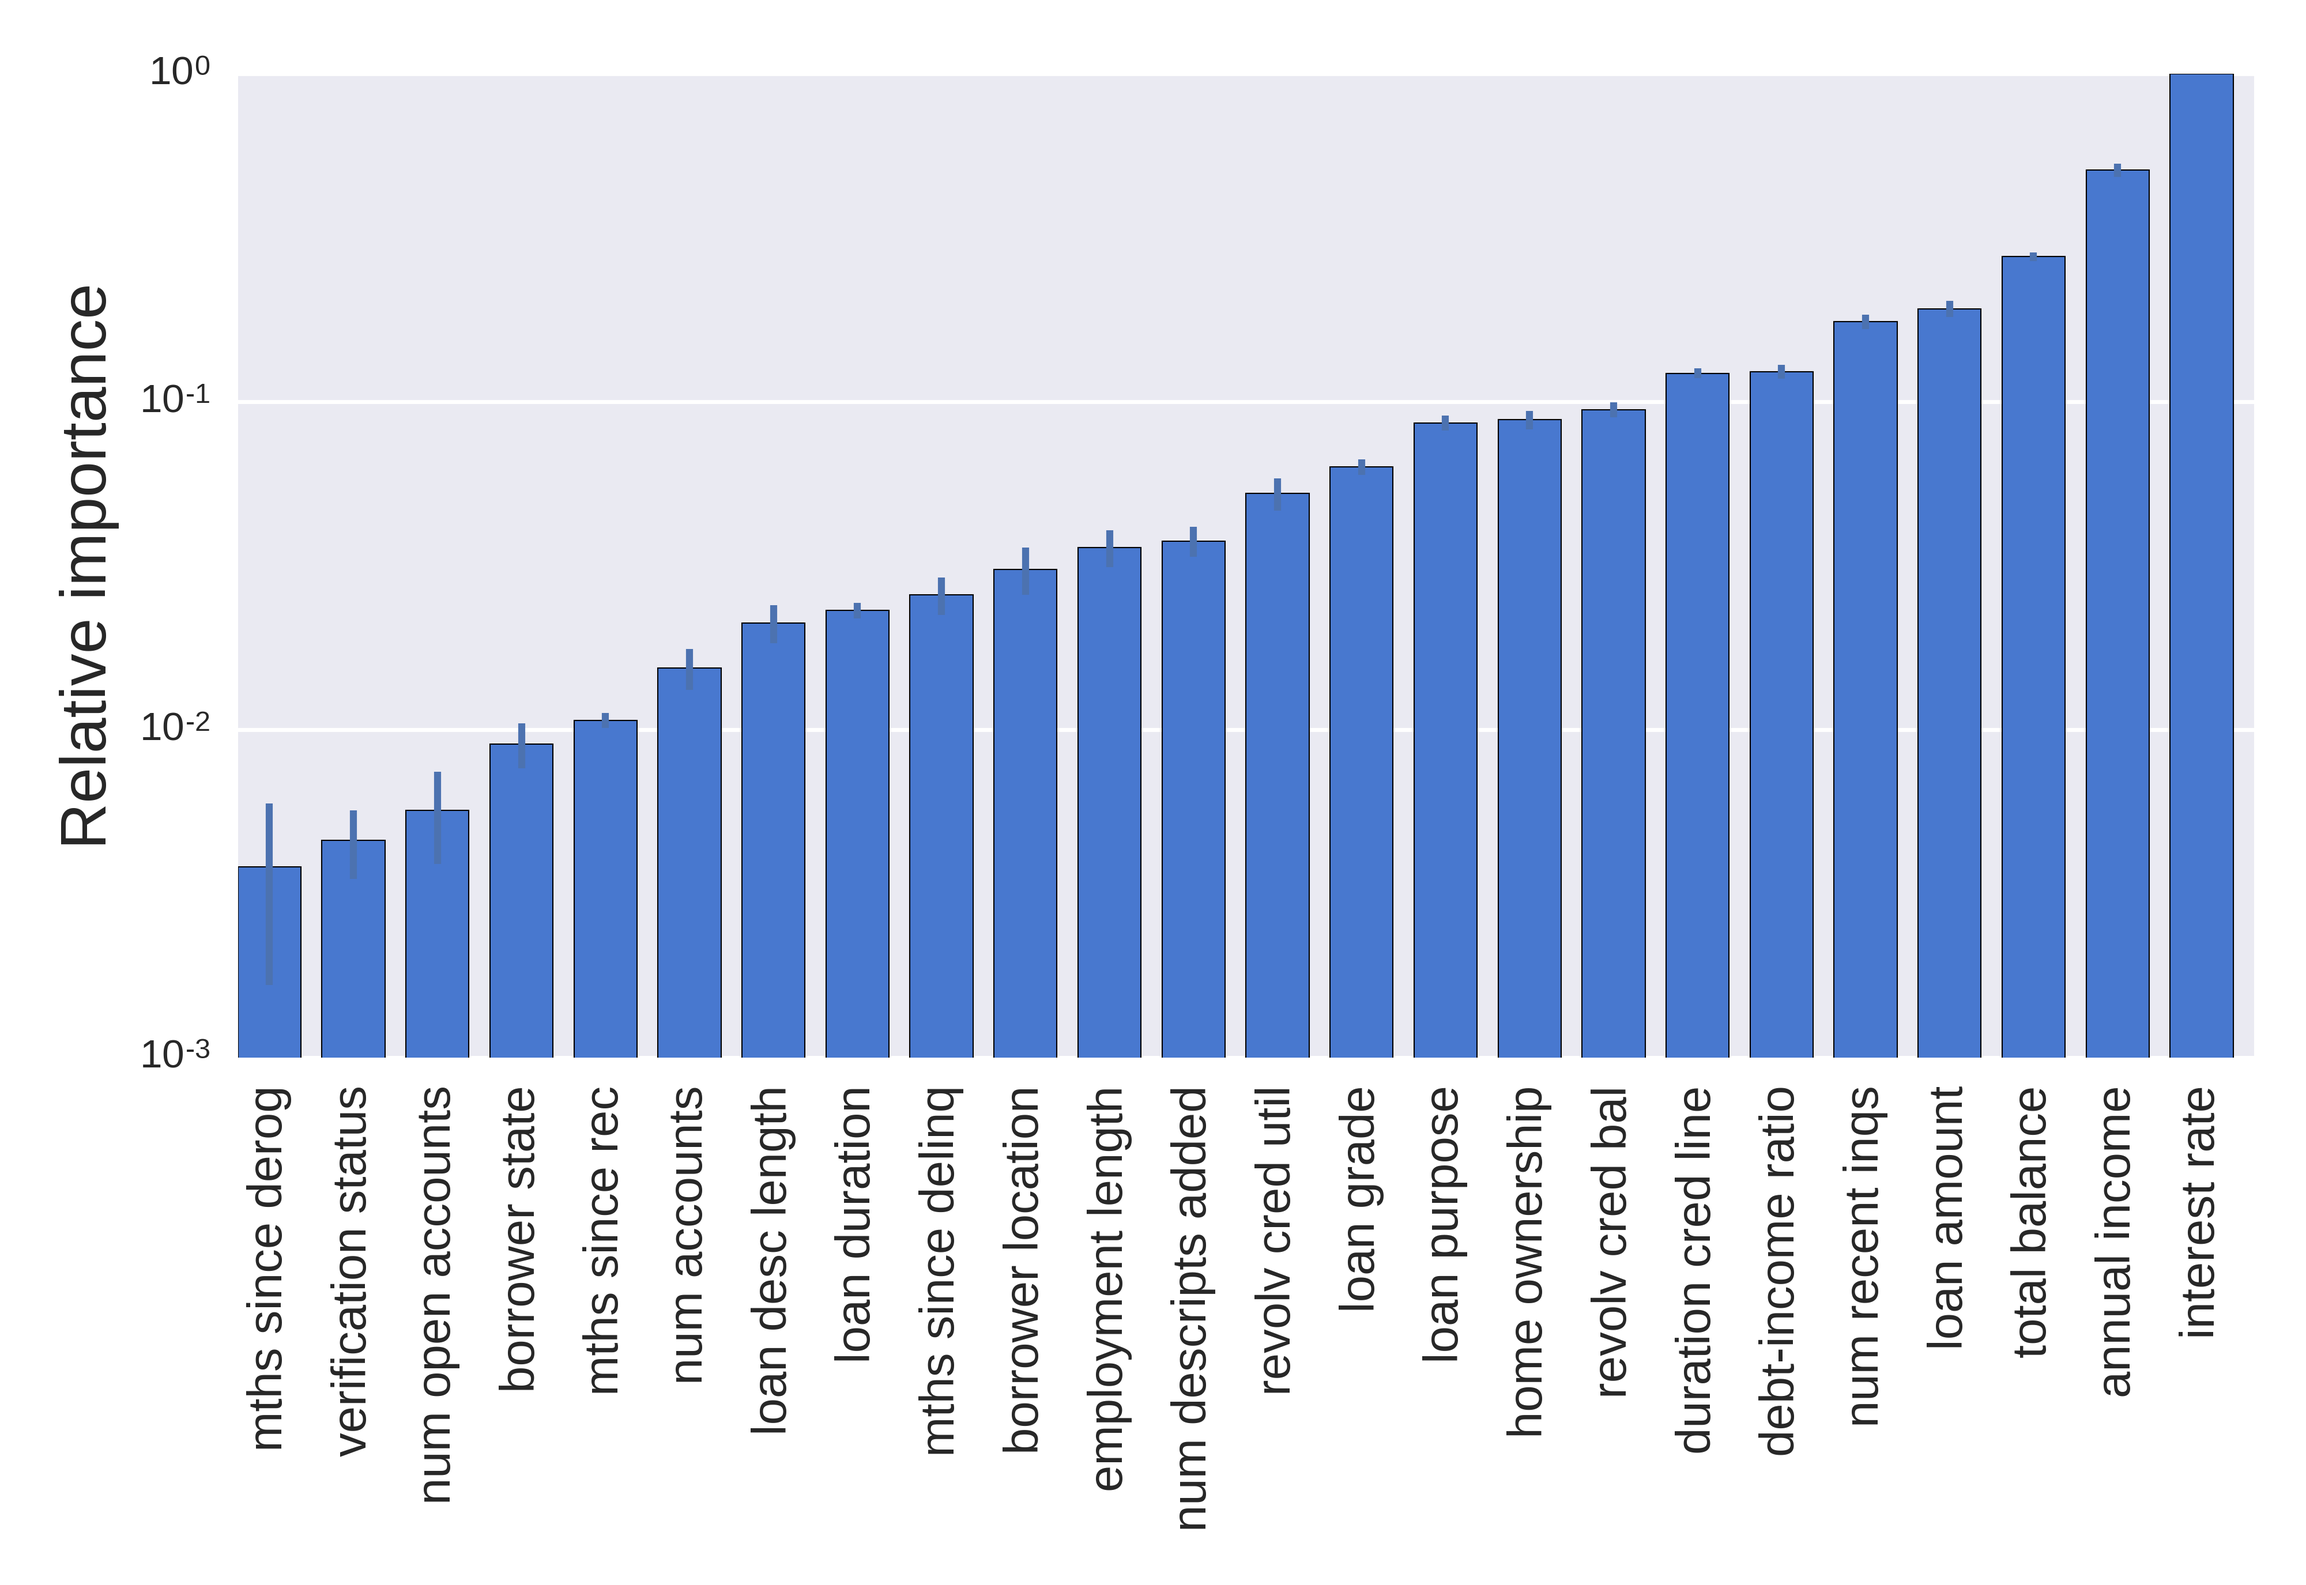
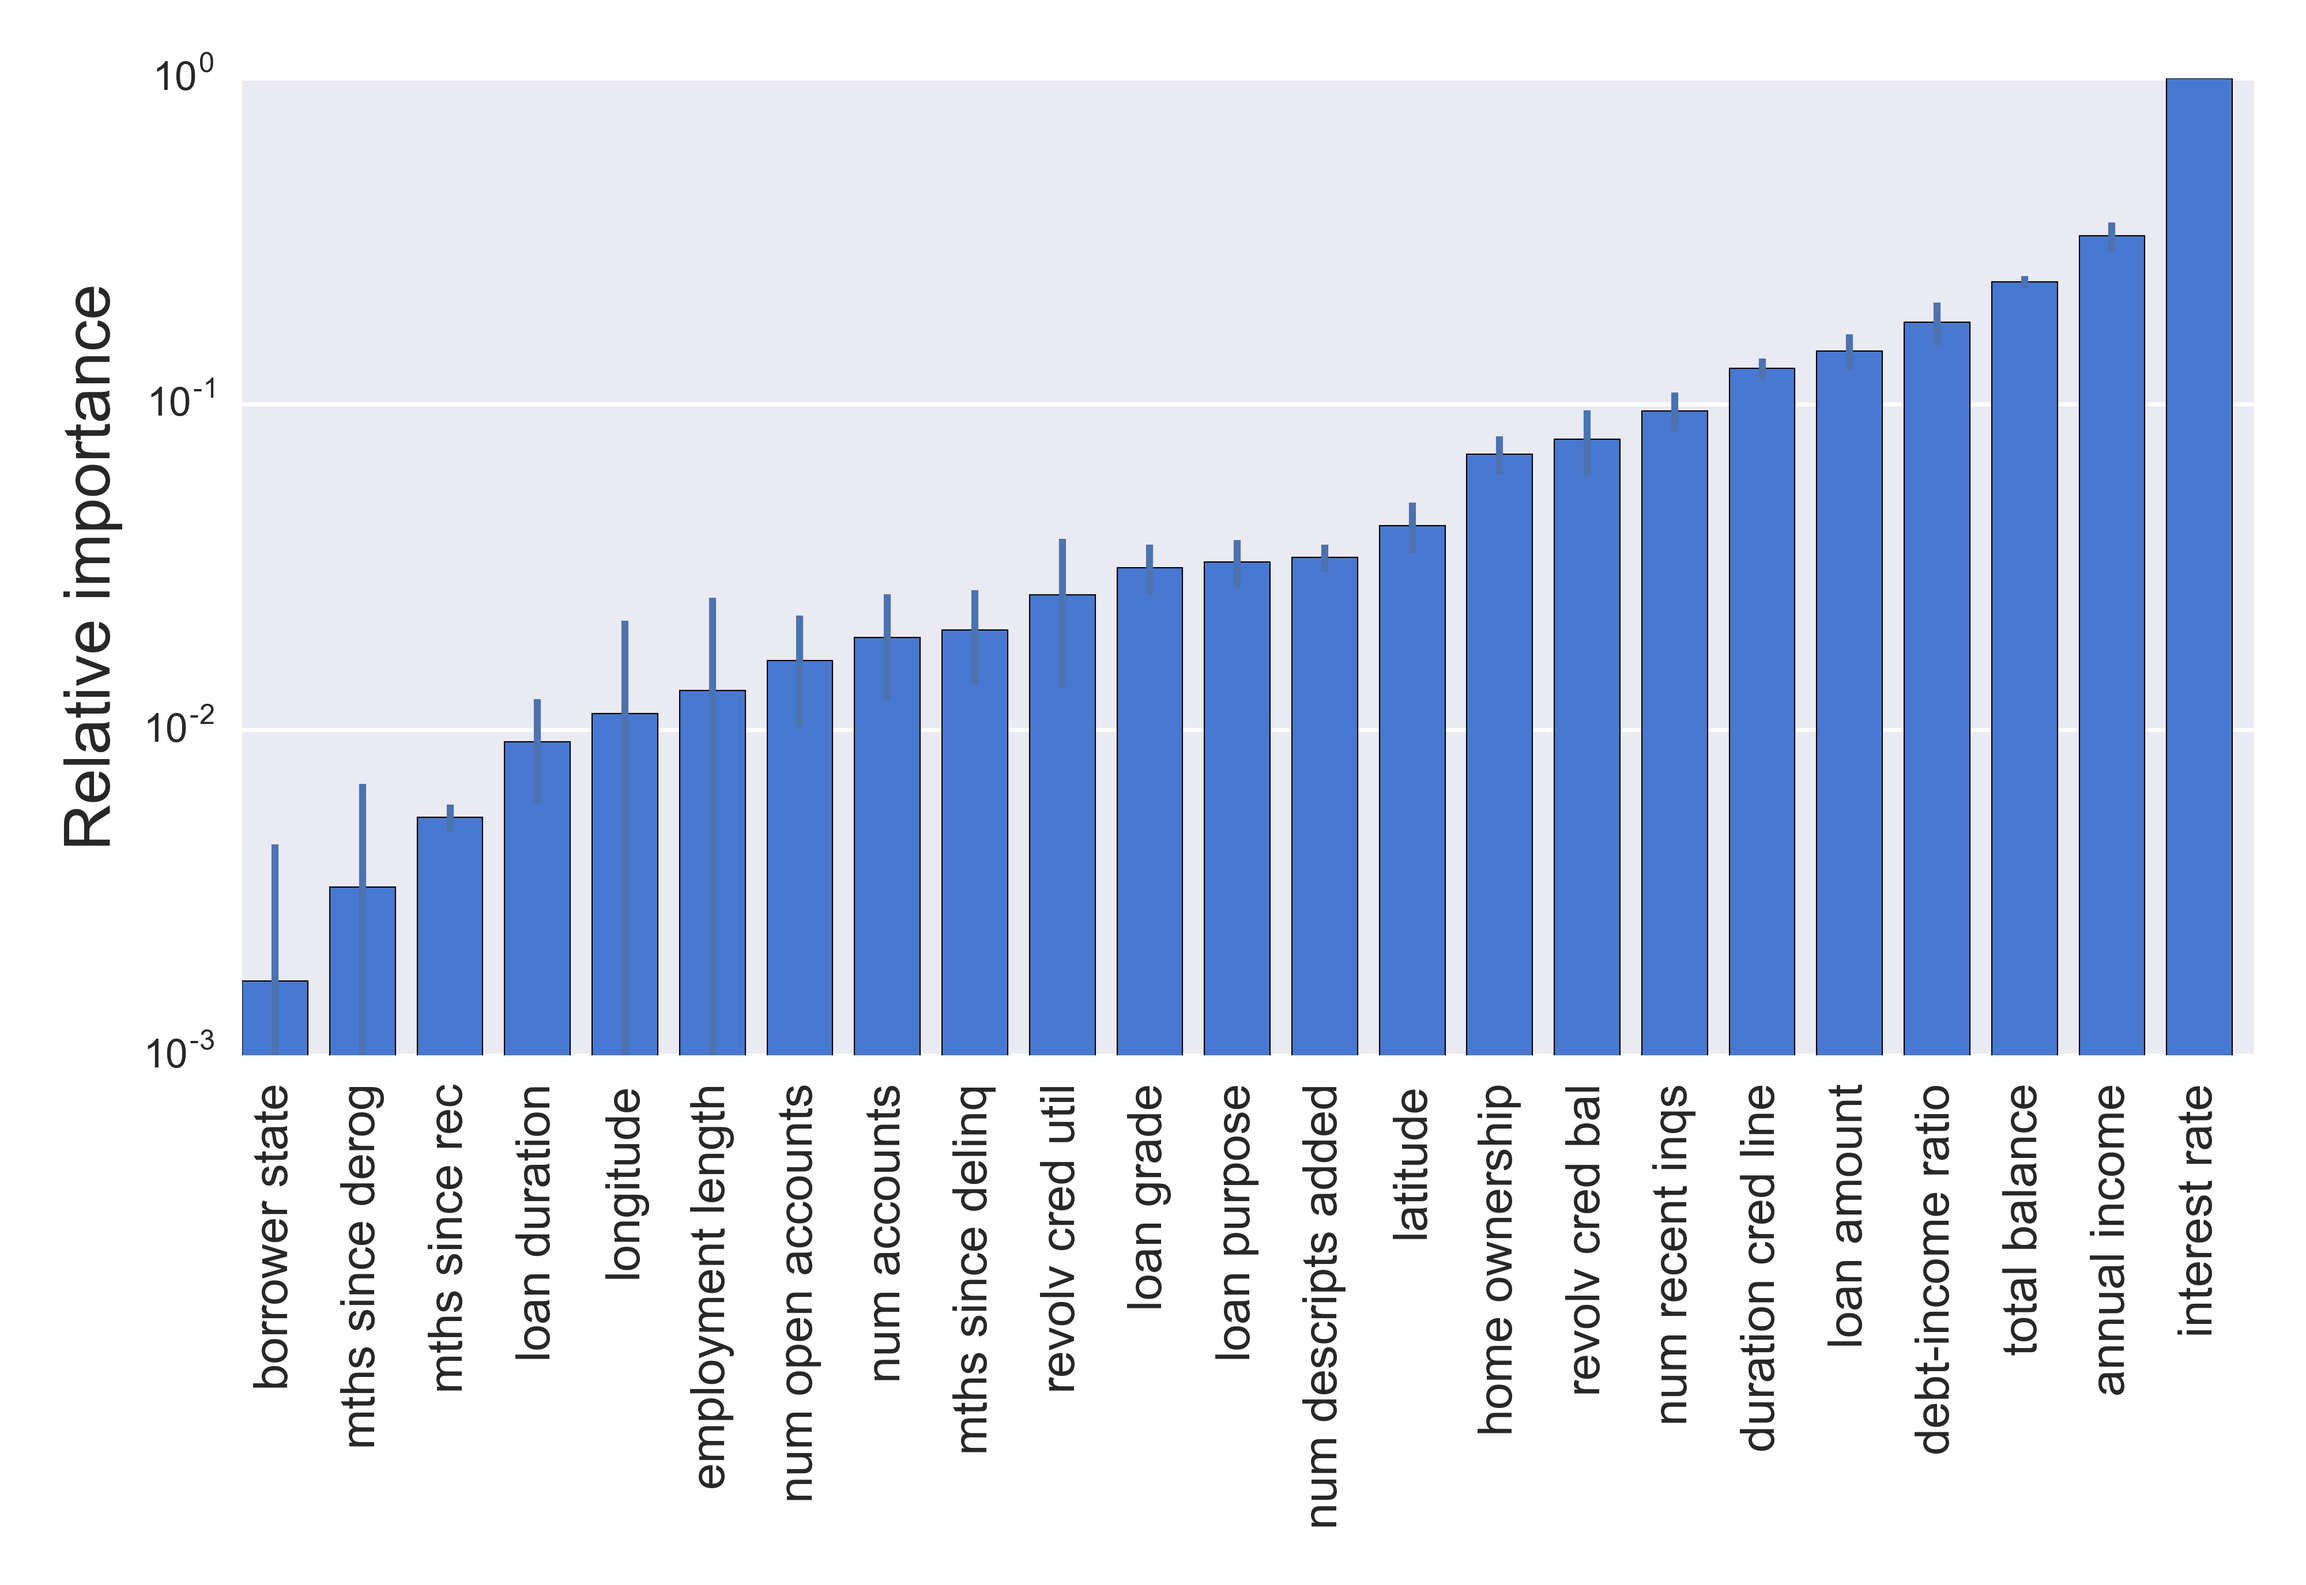
fix bug in make modeling

diff --git a/make_modeling_figs.py b/make_modeling_figs.py
@@ -10,6 +10,7 @@ import matplotlib
 matplotlib.use('Agg')
 
 import matplotlib.pyplot as plt
+import matplotlib.lines as mlines
 import numpy as np
 import seaborn as sns
 import pandas as pd
@@ -196,7 +197,7 @@ leg_titles = {'Null':'Random\nPicking',
               'RF':'Random\nForest'}
 
 #%% Compute returns for all models using K-fold cross-val
-n_folds = 10
+n_folds = 5
 kf = KFold(len(X), n_folds=n_folds, shuffle=True, random_state=0)
 
 pick_K_list = [10, 100, 1000] #list of portfolio sizes to test
@@ -241,7 +242,7 @@ for train, test in kf:
                             LD.iloc[test][grade_group], grade_pick_K))
                             
      grade_makeup[name][cnt,:] = LCM.get_choice_grade_makeup(test_pred, LD.iloc[test][grade_group], 
-                                                            grade_group, unique_grades, grade_pick_K)     
+                                                             unique_grades, grade_pick_K)     
  cnt += 1
 
 # Annualize portfolio returns, and convert them into numpy arrays as needed
@@ -371,6 +372,7 @@ if grade_group == 'sub_grade':
     ax.legend_.remove()
     n_subgrades=5
     big_grades = ['A','B','C','D','E','F']
+    leg_hands = []
     big_grade_idx = np.arange(6)*n_subgrades + n_subgrades//2
     for idx in big_grade_idx:
         leg_hands.append(mlines.Line2D([],[],linewidth=4, color=pal[idx]))
